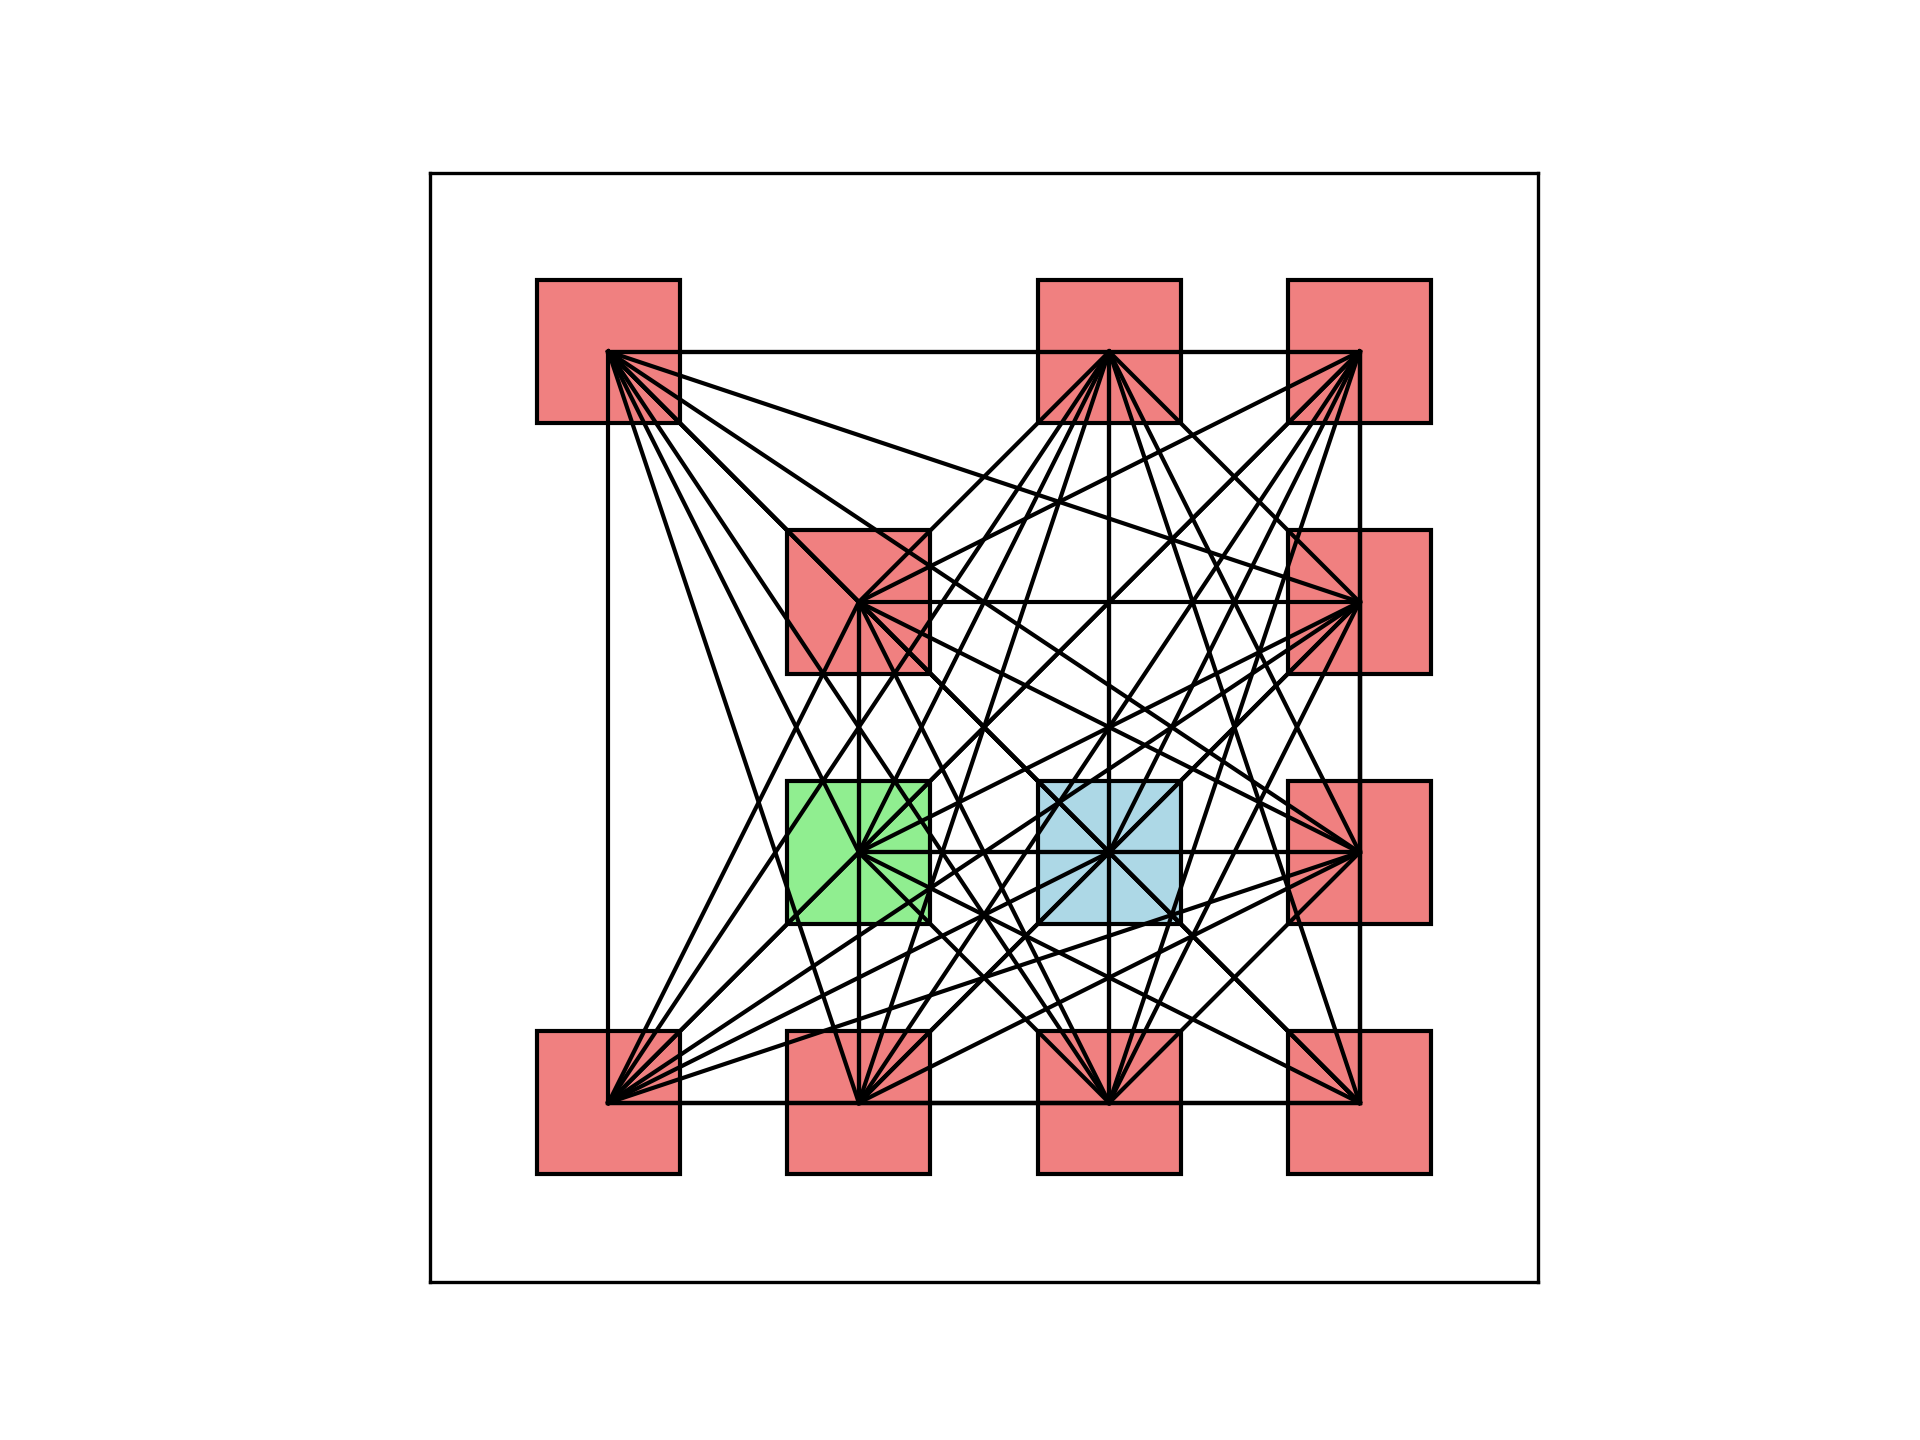
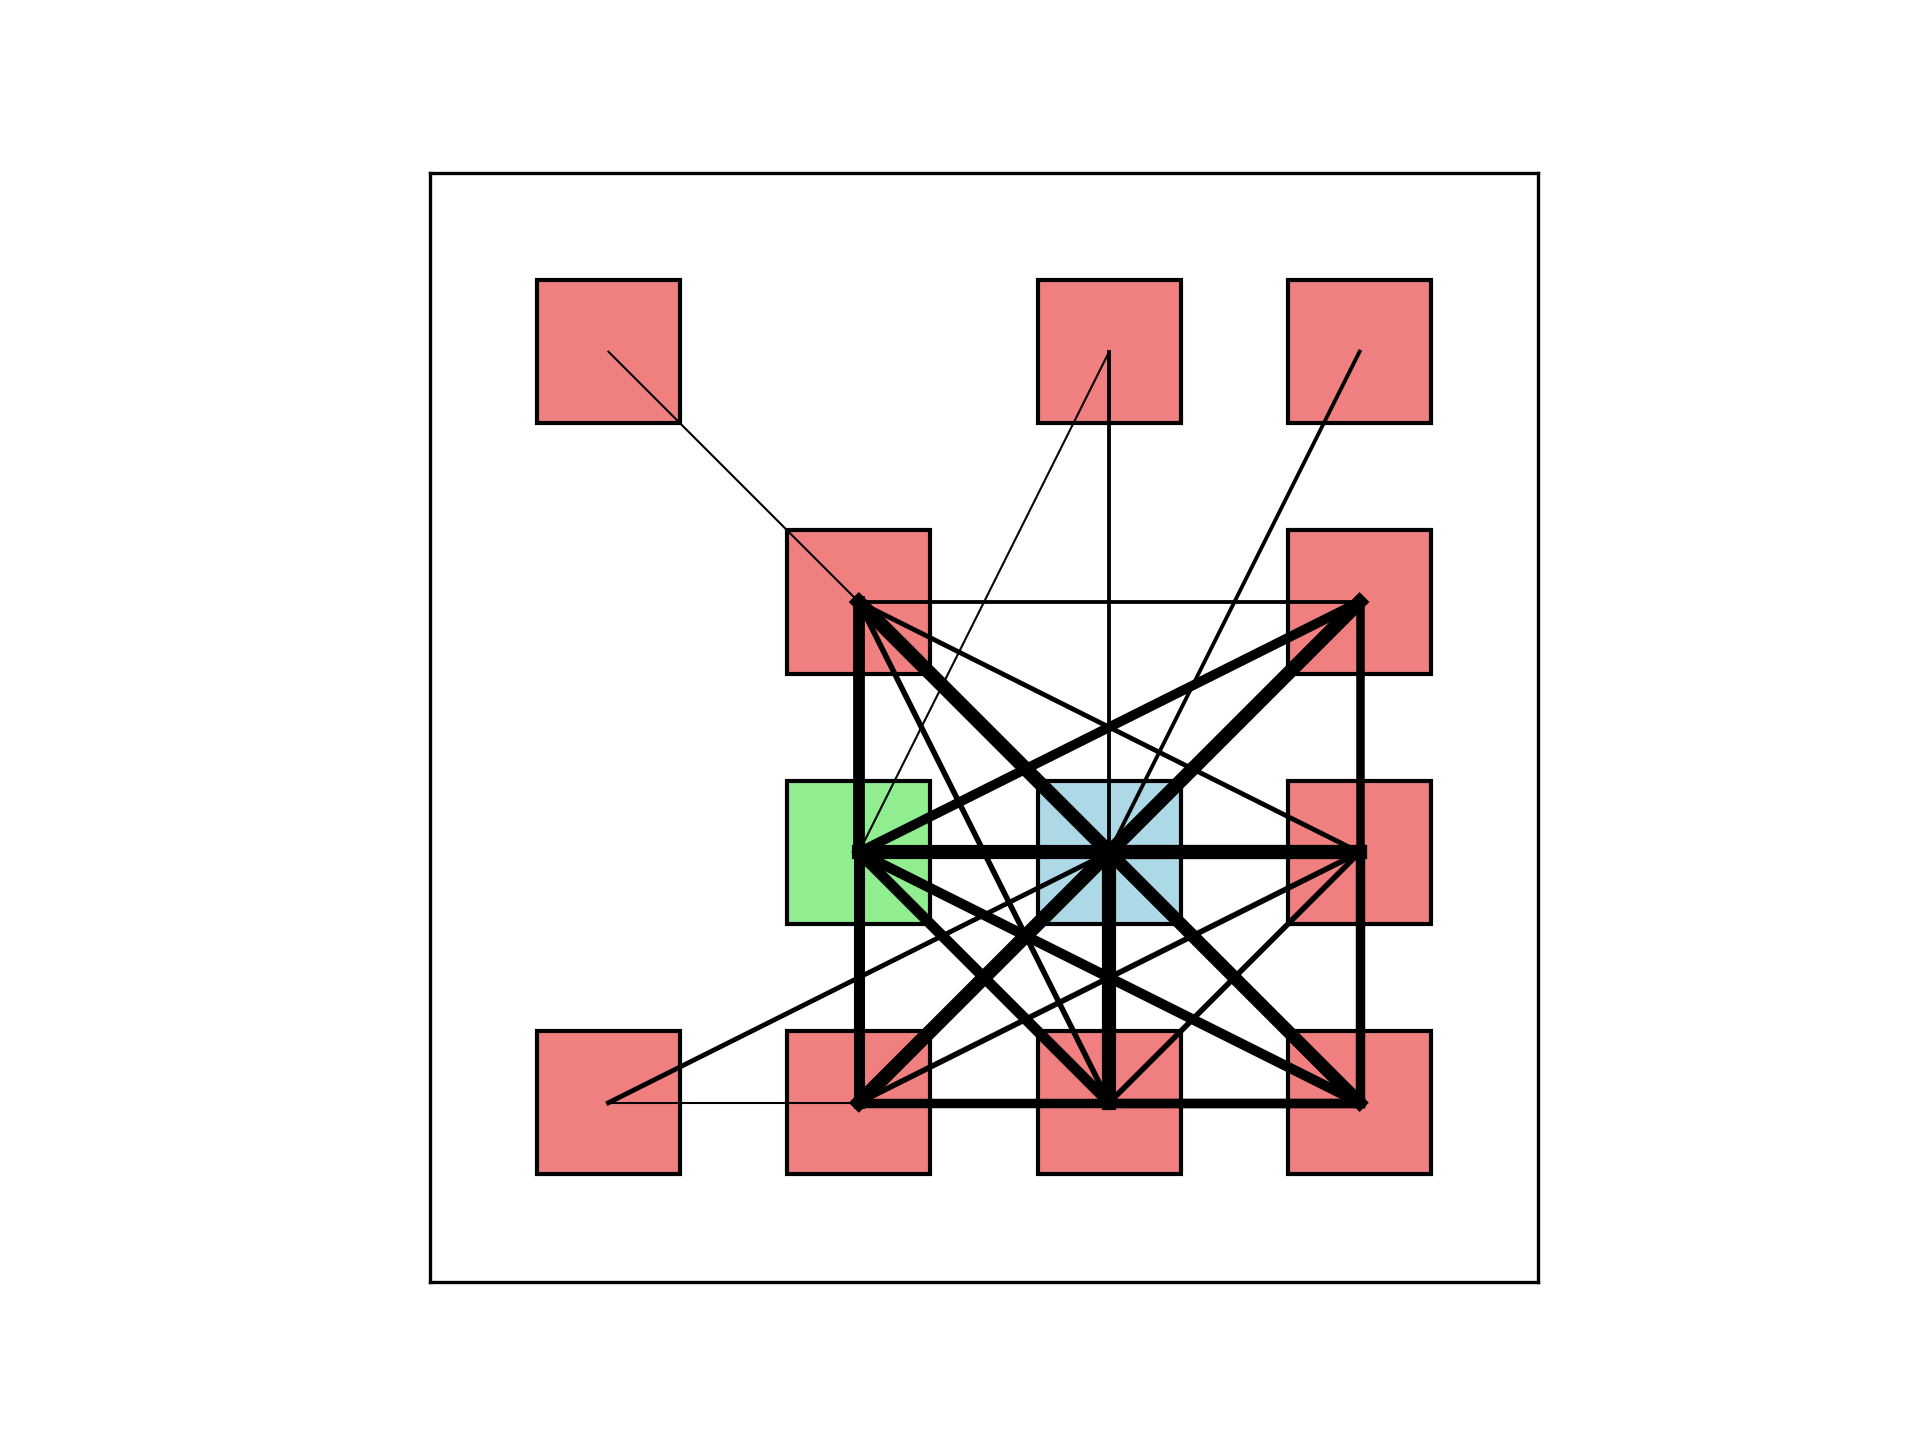
graph

Changed region(s): [[0.3125, 0.2188, 0.7188, 0.7812]]

diff --git a/TriLogic/layout/layout.py b/TriLogic/layout/layout.py
@@ -137,8 +137,17 @@ def route_decide(i, j):
 def routing0(i, j):
 # j在i的左上方，从i到j，右下到左上，先向上，再向左走到j右侧一列，再向上走到j
 # 需要5个坐标(i的上侧坐标，向上走一段的坐标，向左走一段的坐标，再向上走一段的坐标（不能走到j的右侧），j的右侧连接坐标)
+    print("j", j)
+    x1 = [axises[i['X']][i['Y']][0] + i['WIDTH'] / 2, axises[data[j]['X']][data[j]['Y']][0] + data[j]['WIDTH'] / 2]
+    print("x1", x1)
+    y1 = [axises[i['X']][i['Y']][1] + i['HEIGHT'] / 2,
+        axises[data[j]['X']][data[j]['Y']][1] + data[j]['HEIGHT'] / 2]
+    print("y1", y1)
+    if i['CONNECT_LINE'][j] == 0:
+        return
+    line1 = plt.Line2D(x1, y1, lw=0.5+5*np.log2(i['CONNECT_LINE'][j])/n_array, color='black')
+    ax.add_line(line1)
 
-    return 0
 
 def routing1(i, j):
 # j在i的上方，从i到j，下到上，先向上，再向右走到右侧空地，向上走到j右侧，再连接j
@@ -187,15 +196,26 @@ def routing7(i, j):
 for i in data:
     for j in range(i['ID'] + 1, n_array):
         # 对位置做出判断
+        if route_decide(i,j) == 0:
+            routing0(i, data[j])
+        elif route_decide(i, j) == 1:
+            routing1(i, data[j])
+        elif route_decide(i, j) == 2:
+            routing2(i, data[j])
+        elif route_decide(i, j) == 3:
+            routing3(i, data[j])
+        elif route_decide(i,j) == 4:
+            routing4(i, data[j])
+        elif route_decide(i, j) == 5:
+            routing5(i, data[j])
+        elif route_decide(i, j) == 6:
+            routing6(i, data[j])
+        elif route_decide(i, j) == 7:
+            routing7(i, data[j])
+        else:
+            continue
 
-        print("j", j)
-        x1 = [axises[i['X']][i['Y']][0] + i['WIDTH'] / 2, axises[data[j]['X']][data[j]['Y']][0] + data[j]['WIDTH'] / 2]
-        print("x1", x1)
-        y1 = [axises[i['X']][i['Y']][1] + i['HEIGHT'] / 2,
-              axises[data[j]['X']][data[j]['Y']][1] + data[j]['HEIGHT'] / 2]
-        print("y1", y1)
-        line1 = plt.Line2D(x1, y1, lw=1, color='black')
-        ax.add_line(line1)
+
 
 # 保存图形为PNG图片
 plt.savefig('graph.png', dpi=300)
